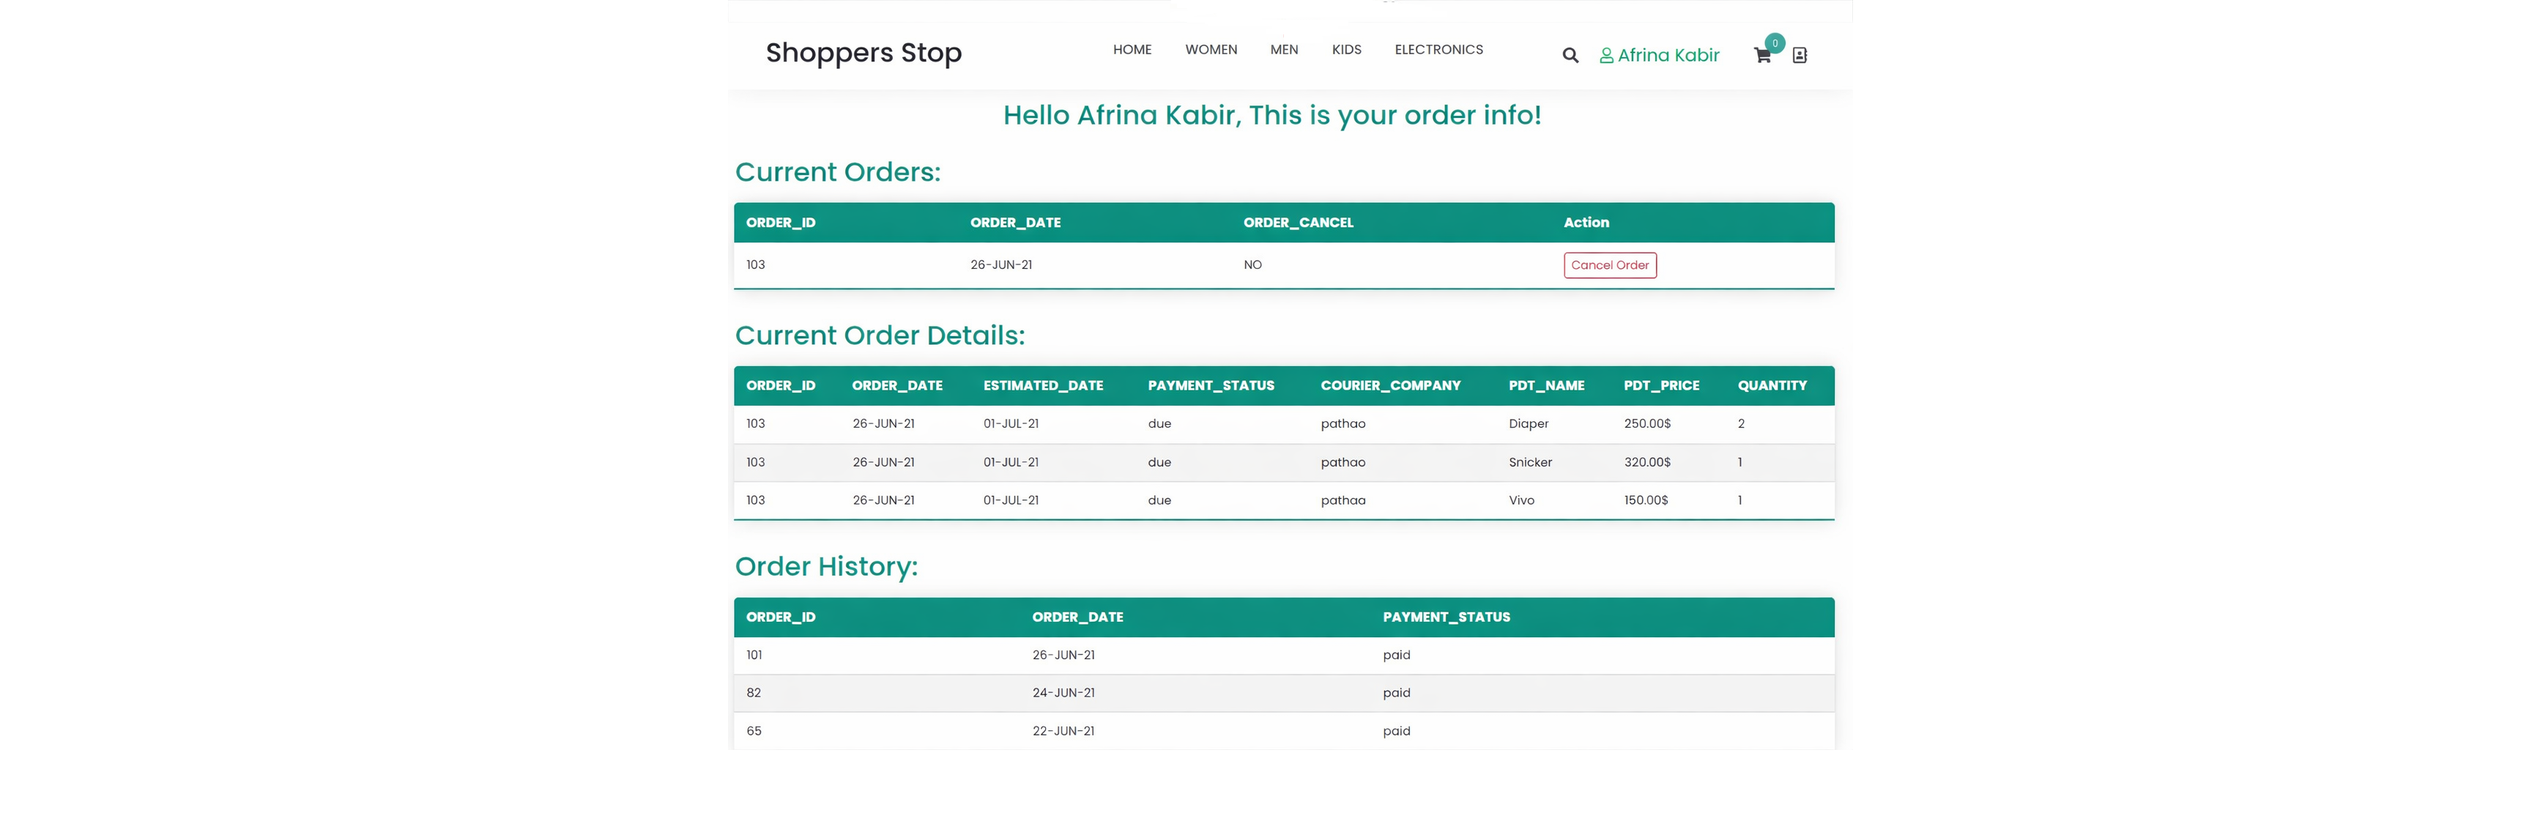
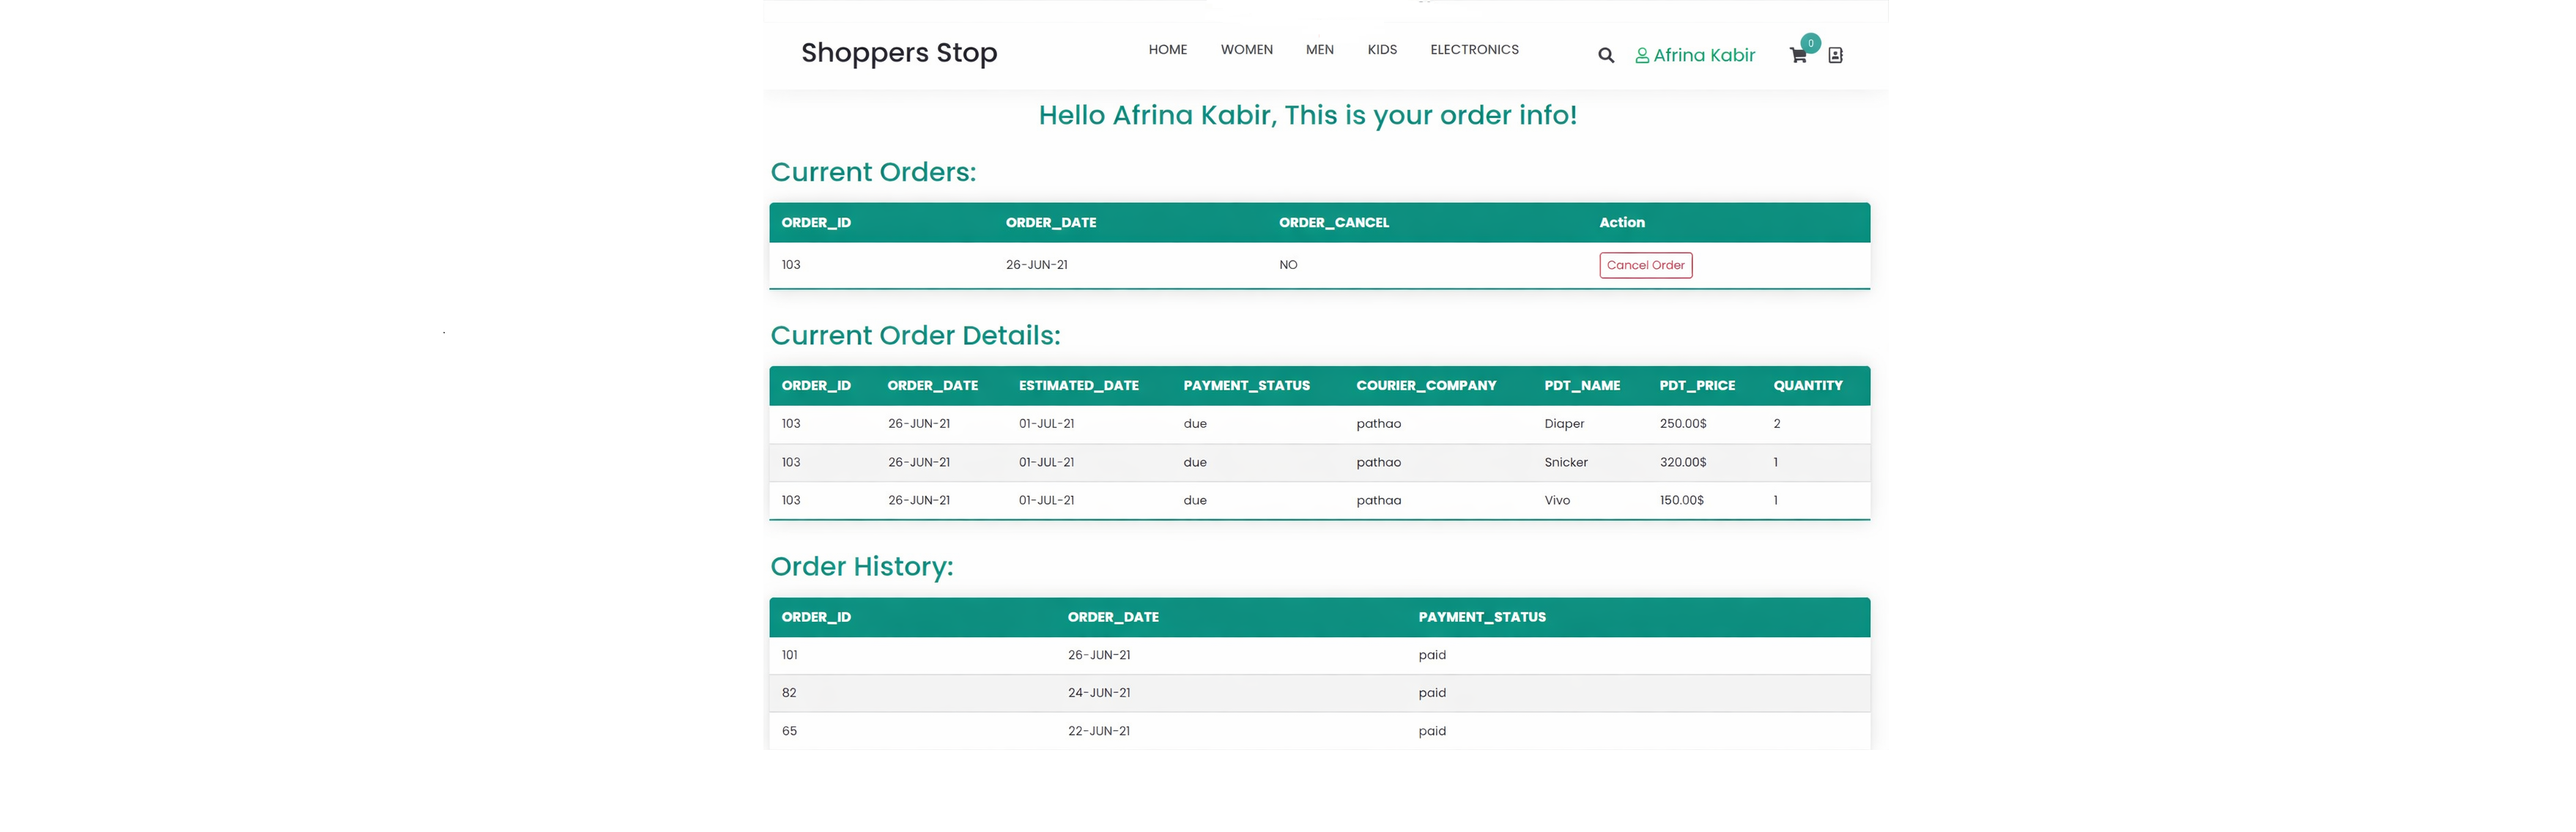
pic

diff --git a/src/pages/Projects.jsx b/src/pages/Projects.jsx
@@ -32,7 +32,7 @@ const PROJECTS = [
     tags: ['Dart', 'Flutter', 'Firebase'],
     status: 'live',
     year: '2023',
-    image: '/images/projects/expense_tracker.jpeg',
+    image: '/images/projects/expense_app.png',
     link: '#',
     repo: 'https://github.com/afrinaK/Expense_Tracker_App',
   },
